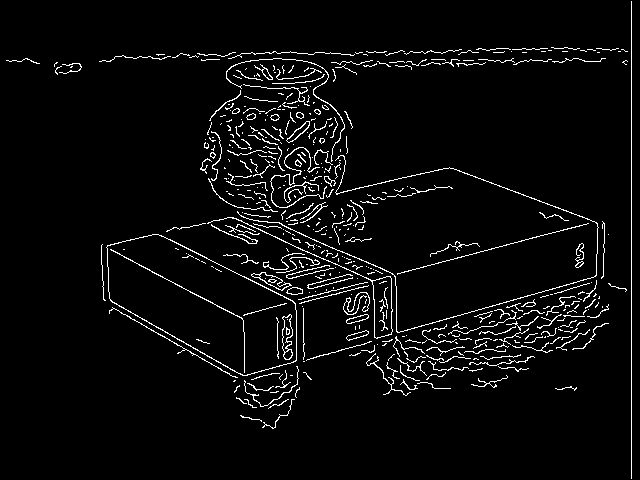
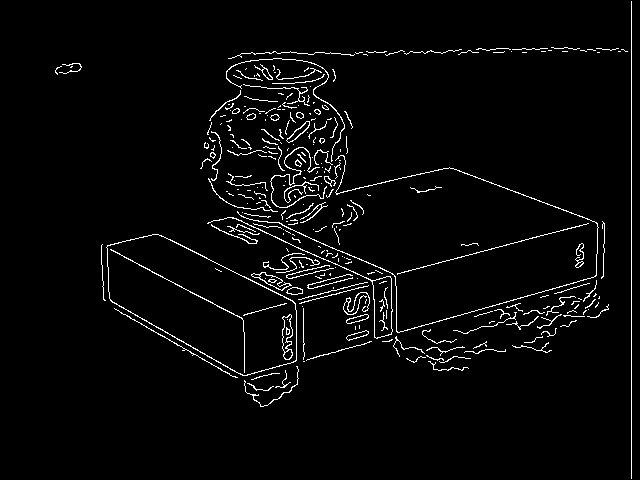
CV: HW3 finish coding

diff --git a/766-Computer-Vision/HW3/lineSegmentFinder.m b/766-Computer-Vision/HW3/lineSegmentFinder.m
@@ -1,1 +1,79 @@
-function cropped_line_img = lineSegmentFinder(orig_img, hough_img, hough_threshold)
+function cropped_line_img = lineSegmentFinder(orig_img, hough_img, hough_threshold, edge_img)
+    sz = size(orig_img);
+    diag = sqrt(sz(1) * sz(1) + sz(2) * sz(2));
+    theta_num_bins = size(hough_img, 2);
+    rho_num_bins = size(hough_img, 1);
+    theta_interval = pi/theta_num_bins;
+    rho_interval = diag * 2 / rho_num_bins;
+    thetas = [0:theta_interval:pi];
+    thetas(end) = [];
+
+    mxs = zeros(rho_num_bins, theta_num_bins, 2);
+    mns = zeros(rho_num_bins, theta_num_bins, 2);
+    mns(:,:,:) = inf;
+    [rows, cols] = find(hough_img >= hough_threshold);
+    selected = zeros(rho_num_bins, theta_num_bins);
+    selected(rows, cols) = 1;
+    
+    axis on
+    hold on
+    [ys, xs] = find(edge_img);
+    
+    for i = 1:size(ys, 1)
+        rhos_calc = ys(i) * cos(thetas) - xs(i) * sin(thetas) + diag;
+        rhos_idx = get_rho_idx(rhos_calc, rho_interval, rho_num_bins);
+        for j = 1:theta_num_bins
+            idx = [rhos_idx(j), j];
+            if selected(idx(1), idx(2)) == 1
+                p = [xs(i) ys(i)];
+                if p(1) > mxs(idx(1), idx(2), 1) || p(1) == mxs(idx(1), idx(2), 1) && p(2) > mxs(idx(1), idx(2), 2)
+                    mxs(idx(1), idx(2), :) = p;
+                end
+                if p(1) < mns(idx(1), idx(2), 1) || p(1) == mns(idx(1), idx(2), 1) && p(2) < mns(idx(1), idx(2), 2)
+                    mns(idx(1), idx(2), :) = p;
+                end
+            end
+        end
+    end
+    
+    fh = figure();
+    imshow(orig_img)
+    for k = 1:size(rows, 1)
+        hold on
+        line([mns(rows(k), cols(k), 1) mxs(rows(k), cols(k), 1)], ...
+             [mns(rows(k), cols(k), 2) mxs(rows(k), cols(k), 2)]);
+    end
+
+    cropped_line_img = saveAnnotatedImg(fh);
+    pause(1);
+    close(fh);
+end
+
+
+function annotated_img = saveAnnotatedImg(fh)
+figure(fh); % Shift the focus back to the figure fh
+
+% The figure needs to be undocked
+set(fh, 'WindowStyle', 'normal');
+
+% The following two lines just to make the figure true size to the
+% displayed image. The reason will become clear later.
+img = getimage(fh);
+truesize(fh, [size(img, 1), size(img, 2)]);
+
+% getframe does a screen capture of the figure window, as a result, the
+% displayed figure has to be in true size. 
+frame = getframe(fh);
+frame = getframe(fh);
+pause(0.5); 
+% Because getframe tries to perform a screen capture. it somehow 
+% has some platform depend issues. we should calling
+% getframe twice in a row and adding a pause afterwards make getframe work
+% as expected. This is just a walkaround. 
+annotated_img = frame.cdata;
+end
+
+
+function idx = get_rho_idx(rho, rho_interval, bin_cnt)
+    idx = min(bin_cnt, max(1, ceil(rho/rho_interval)));
+end

diff --git a/766-Computer-Vision/HW3/lineFinder.m b/766-Computer-Vision/HW3/lineFinder.m
@@ -1,1 +1,57 @@
 function line_detected_img = lineFinder(orig_img, hough_img, hough_threshold)
+    sz = size(orig_img);
+    diag = sqrt(sz(1) * sz(1) + sz(2) * sz(2));
+    theta_num_bins = size(hough_img, 2);
+    rho_num_bins = size(hough_img, 1);
+    theta_interval = pi/theta_num_bins;
+    rho_interval = diag * 2 / rho_num_bins;
+    thetas = [0:theta_interval:pi];
+    rhos = [-diag:rho_interval:diag];
+    thetas(end) = [];
+    rhos(end) = [];
+
+    [rows, cols] = find(hough_img >= hough_threshold);
+    line_thetas = thetas(cols);
+    line_rhos = rhos(rows);
+
+    fh = figure();
+    imshow(orig_img);
+    hold on;
+    for i=1:size(rows,1)
+        if line_thetas(i) > pi / 2
+            y = [0 sz(1)];
+            x = (y * cos(line_thetas(i)) - line_rhos(i)) * csc(line_thetas(i));
+        else
+            x = [0 sz(2)];
+            y = (x * sin(line_thetas(i)) + line_rhos(i)) * sec(line_thetas(i));
+        end
+        line(x, y)
+    end 
+    line_detected_img = saveAnnotatedImg(fh);
+    pause(1);
+    close(fh)
+end
+
+
+function annotated_img = saveAnnotatedImg(fh)
+figure(fh); % Shift the focus back to the figure fh
+
+% The figure needs to be undocked
+set(fh, 'WindowStyle', 'normal');
+
+% The following two lines just to make the figure true size to the
+% displayed image. The reason will become clear later.
+img = getimage(fh);
+truesize(fh, [size(img, 1), size(img, 2)]);
+
+% getframe does a screen capture of the figure window, as a result, the
+% displayed figure has to be in true size. 
+frame = getframe(fh);
+frame = getframe(fh);
+pause(0.5); 
+% Because getframe tries to perform a screen capture. it somehow 
+% has some platform depend issues. we should calling
+% getframe twice in a row and adding a pause afterwards make getframe work
+% as expected. This is just a walkaround. 
+annotated_img = frame.cdata;
+end

diff --git a/766-Computer-Vision/HW3/runHw3.m b/766-Computer-Vision/HW3/runHw3.m
@@ -32,7 +32,7 @@ runTests(varargin, fun_handles);
 function honesty()
 % Type your full name and uni (both in string) to state your agreement 
 % to the Code of Academic Integrity.
-signAcademicHonestyPolicy('Peter Parker', 'pp117');
+signAcademicHonestyPolicy('Cody Tseng', 'ctseng27');
 
 %--------------------------------------------------------------------------
 % Tests for Walkthrough 1: Image processing
@@ -47,7 +47,7 @@ hw3_walkthrough1;
 %%
 function challenge1a()
 img_list = {'hough_1', 'hough_2', 'hough_3'};
-threshold = [0.06, 0.1, 0.02];
+threshold = [0.06, 0.1, 0.03];
 for i = 1:length(img_list)
     img = imread([img_list{i} '.png']);
     imshow(img)
@@ -64,8 +64,8 @@ end
 function challenge1b()
 img_list = {'hough_1', 'hough_2', 'hough_3'};
 
-% rho_num_bins = ??;
-% theta_num_bins = ??;
+rho_num_bins = 400;
+theta_num_bins = 400;
 for i = 1:length(img_list)
     img = imread(['edge_' img_list{i} '.png']);
     hough_accumulator = generateHoughAccumulator(img,...
@@ -81,7 +81,7 @@ end
 function challenge1c()
 
 img_list = {'hough_1', 'hough_2', 'hough_3'};
-%hough_threshold = [?? ?? ??];
+hough_threshold = [130 120 135];
 
 for i = 1:length(img_list)
     orig_img = imread([img_list{i} '.png']);
@@ -101,12 +101,13 @@ end
 function challenge1d()
 
 img_list = {'hough_1', 'hough_2', 'hough_3'};
-%hough_threshold = [?? ?? ??];
+hough_threshold = [130 120 135];
 
 for i = 1:length(img_list)
     orig_img = imread([img_list{i} '.png']);
     hough_img = imread(['accumulator_' img_list{i} '.png']);
-    line_img = lineSegmentFinder(orig_img, hough_img, hough_threshold(i));
+    edge_img = imread(['edge_' img_list{i} '.png']);
+    line_img = lineSegmentFinder(orig_img, hough_img, hough_threshold(i), edge_img);
     
     % Note: The values of line_img should be between 0 and 255 and the
     % data type should be uint8.

diff --git a/766-Computer-Vision/HW3/generateHoughAccumulator.m b/766-Computer-Vision/HW3/generateHoughAccumulator.m
@@ -1,2 +1,36 @@
 function hough_img = generateHoughAccumulator(img, theta_num_bins, rho_num_bins)
+    sz = size(img);
+    diag = sqrt(sz(1) * sz(1) + sz(2) * sz(2));
+    theta_interval = pi/theta_num_bins;
+    rho_interval = diag * 2 / rho_num_bins;
+    thetas = [0:theta_interval:pi];
+    thetas(end) = [];
+
+    hough_img = zeros(rho_num_bins, theta_num_bins);
+    [ys, xs] = find(img);
+    for i = 1:size(ys, 1)
+        rhos_calc = ys(i) * cos(thetas) - xs(i) * sin(thetas) + diag;
+        rhos_idx = get_rho_idx(rhos_calc, rho_interval, rho_num_bins);
+        for j = 1:theta_num_bins
+            hough_img(rhos_idx(j), j) = hough_img(rhos_idx(j), j) + 1;
+        end
+    end
+
+
+    mx = max(hough_img, [], 'all');
+    hough_img = min(255, round(hough_img .* (255 ./ mx)));
+    fh = figure();
+    imshow(hough_img, [0 255]);
+    colormap(gca,hot);
+    pause(1)
+    close(fh)
+end
+
+%%
+function idx = get_rho_idx(rho, rho_interval, bin_cnt)
+    idx = min(bin_cnt, max(1, ceil(rho/rho_interval)));
+end
+
+
+
 
